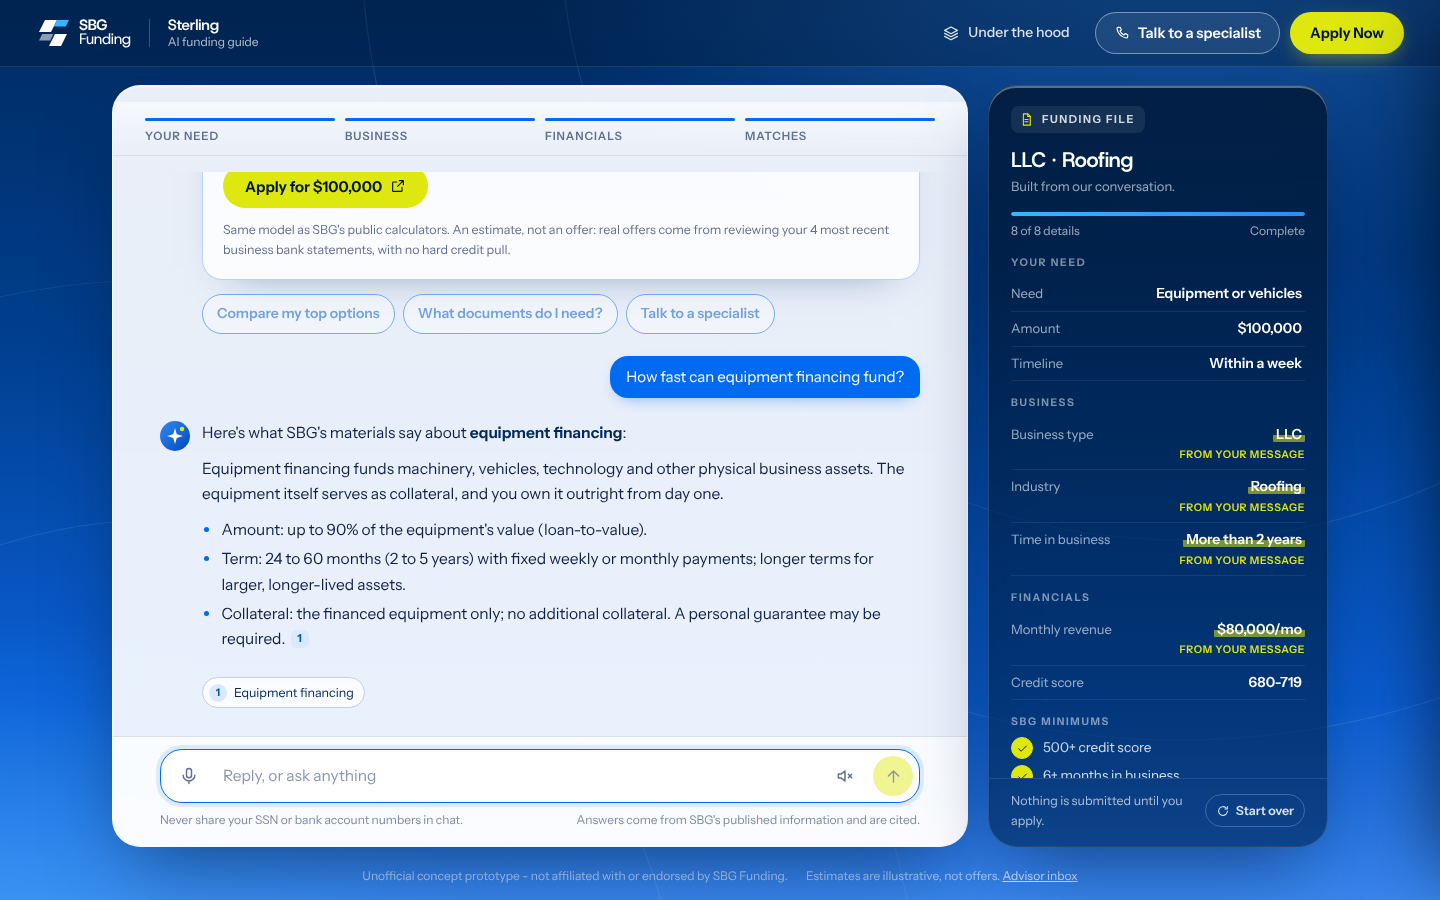
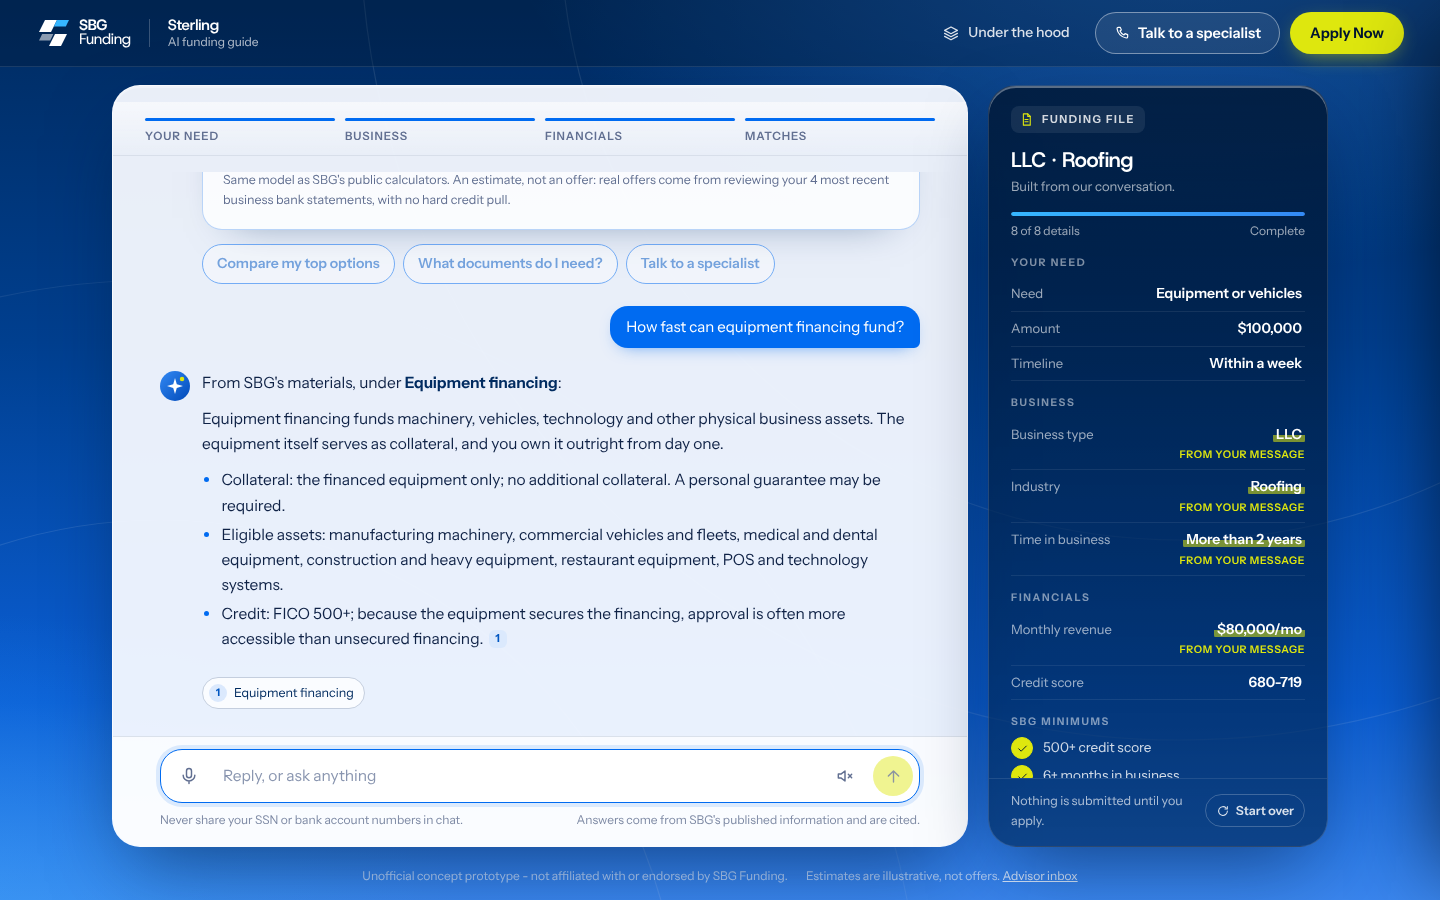
Answer questions properly in retrieval-only mode
Found while testing the README's quick start in a fresh clone:
- "How fast can equipment financing fund?" was taken as a stated need
  (purpose: equipment) and got "I've added need to your funding file" instead
  of an answer. Questions are now answered; details in them (revenue, entity
  type) are still captured, but a product name in a question no longer counts
  as a need.
- A short continuation of a split section could outrank the section's
  opening, which holds the direct answer ("your 4 most recent business bank
  statements"). The opening is quoted when it was retrieved too.
- Excerpts now pick the bullets that share the most words with the question,
  so "is there a draw fee?" shows the fee bullet.
- Headers keep the passage title's casing, and the capture message names the
  values it noted.

Four tests cover this (99 in total); README screenshots refreshed.

Claude-Session: https://claude.ai/code/session_01GDVX7sSqJoKBkn4jgicuQt

Changed region(s): [[0.0938, 0.1867, 0.6562, 0.7156]]

diff --git a/lib/agent/offline.ts b/lib/agent/offline.ts
@@ -7,8 +7,9 @@
  *      knowledge base, or offers a specialist when nothing matches.
  * Less fluent than the model, but never wrong in a way the knowledge base isn't.
  */
-import { FIELD_LABELS, mergeProfile, monthsToBucket, type Profile, type ProfileField } from "@/lib/engine/profile";
-import { search } from "@/lib/rag/retriever";
+import { describeField, FIELD_LABELS, mergeProfile, monthsToBucket, type Profile, type ProfileField } from "@/lib/engine/profile";
+import { tokenize } from "@/lib/rag/bm25";
+import { loadIndex, search } from "@/lib/rag/retriever";
 import type { IndustryId } from "@/lib/sbg/industries";
 import type { ToolContext } from "./tools";
 
@@ -97,13 +98,23 @@ export function extractProfile(text: string): Partial<Profile> {
   return Object.fromEntries(Object.entries(out).filter(([, v]) => v !== undefined)) as Partial<Profile>;
 }
 
-function firstSentences(text: string, n: number): string {
+/** The passage's opening sentences, plus the bullets that share the most words with the question. */
+function excerpt(text: string, question: string): string {
   const lines = text.split("\n");
   const prose = lines.filter((l) => !l.startsWith("- ")).join(" ");
-  const sentences = (prose.match(/[^.!?]+[.!?]+/g) ?? [prose]).map((s) => s.trim());
-  const bullets = lines.filter((l) => l.startsWith("- ")).slice(0, 3);
-  return [sentences.slice(0, n).join(" "), ...bullets].filter(Boolean).join("\n");
+  const opening = (prose.match(/[^.!?]+[.!?]+/g) ?? [prose]).map((s) => s.trim()).slice(0, 3).join(" ");
+  const terms = new Set(tokenize(question));
+  const bullets = lines
+    .map((line, i) => ({ line, i, overlap: tokenize(line).filter((t) => terms.has(t)).length }))
+    .filter((b) => b.line.startsWith("- "))
+    .sort((a, b) => b.overlap - a.overlap || a.i - b.i)
+    .slice(0, 3)
+    .sort((a, b) => a.i - b.i)
+    .map((b) => b.line);
+  return [opening, ...bullets].filter(Boolean).join("\n");
 }
+
+const QUESTION_START = /^\s*(what|how|when|where|why|who|which|can|could|do|does|did|is|are|will|would|should)\b/i;
 
 const PII_REPLY =
   "For your security I removed that number from our chat. SBG never needs it here: you'll share what's required in the secure application, and applying only uses a soft credit pull.";
@@ -113,16 +124,23 @@ export async function offlineTurn(ctx: ToolContext, text: string, redacted = fal
     ctx.emit({ type: "text", delta: PII_REPLY });
     return PII_REPLY;
   }
+  const question = /\?\s*$/.test(text) || QUESTION_START.test(text);
   const extracted = extractProfile(text);
+  // In a question, a product name ("how fast is equipment financing?") isn't a stated need.
+  if (question) delete extracted.purpose;
   const { profile, changed } = mergeProfile(ctx.state.profile, extracted);
   if (changed.length > 0) {
     ctx.state.profile = profile;
     if (!ctx.state.intent) ctx.state.intent = "find";
     ctx.emit({ type: "profile", profile, changed, via: "ai" });
     ctx.trace("tool", `Pattern extraction: ${changed.map((f: ProfileField) => FIELD_LABELS[f]).join(", ")}`, extracted);
-    const reply = `Thanks - I've added ${changed.map((f) => FIELD_LABELS[f].toLowerCase()).join(", ")} to your funding file.`;
-    ctx.emit({ type: "text", delta: reply });
-    return reply;
+    if (!question) {
+      const noted = changed.map((f) => `${FIELD_LABELS[f].toLowerCase()} (${describeField(f, profile)})`);
+      const list = noted.length > 1 ? `${noted.slice(0, -1).join(", ")} and ${noted.at(-1)}` : noted[0];
+      const reply = `Thanks - I've noted your ${list} in your funding file.`;
+      ctx.emit({ type: "text", delta: reply });
+      return reply;
+    }
   }
 
   const result = await search(text, { k: 3 });
@@ -141,8 +159,16 @@ export async function offlineTurn(ctx: ToolContext, text: string, redacted = fal
     return reply;
   }
 
-  const top = result.hits[0].chunk;
-  const reply = `Here's what SBG's materials say about **${top.title.toLowerCase()}**:\n\n${firstSentences(top.text, 3)} [1]`;
+  // Long sections are split into several chunks, and a short continuation can outrank the
+  // section's opening, which usually holds the direct answer. Quote the opening when it
+  // was retrieved too.
+  const position = (id: string) => loadIndex().index.chunks.findIndex((c) => c.id === id);
+  const best = result.hits[0].chunk;
+  const top = result.hits
+    .map((h) => h.chunk)
+    .filter((c) => c.section === best.section && c.title === best.title)
+    .sort((a, b) => position(a.id) - position(b.id))[0];
+  const reply = `From SBG's materials, under **${top.title}**:\n\n${excerpt(top.text, text)} [1]`;
   ctx.sources.set(top.id, { n: 1, title: top.title, section: top.section, url: top.source, snippet: top.text.slice(0, 240) });
   ctx.emit({ type: "text", delta: reply });
   return reply;

diff --git a/tests/offline.test.ts b/tests/offline.test.ts
@@ -1,6 +1,7 @@
-/** Offline mode's pattern extraction: what it can pull from a message without the model. */
+/** Retrieval-only mode: what it can pull from a message, and how it answers, without the model. */
 import { describe, expect, it } from "vitest";
-import { extractProfile } from "@/lib/agent/offline";
+import { extractProfile, offlineTurn } from "@/lib/agent/offline";
+import type { ToolContext } from "@/lib/agent/tools";
 
 describe("extractProfile", () => {
   it("pulls a whole profile out of one sentence", () => {
@@ -32,5 +33,34 @@ describe("extractProfile", () => {
 
   it("reads written-out units", () => {
     expect(extractProfile("Looking for 250 thousand to open a second location")).toEqual({ amount: 250_000, purpose: "expansion" });
+  });
+});
+
+describe("offlineTurn", () => {
+  const context = () =>
+    ({ state: { sessionId: "test", profile: {}, history: [] }, emit: () => {}, trace: () => {}, defer: () => {}, sources: new Map() }) as unknown as ToolContext;
+
+  it("notes business details from a statement", async () => {
+    const ctx = context();
+    const reply = await offlineTurn(ctx, "I run a roofing company, an LLC, 3 years in business, about $80K a month");
+    expect(ctx.state.profile).toMatchObject({ industry: "roofing", businessType: "llc", monthlyRevenue: 80_000 });
+    expect(reply).toContain("in your funding file");
+  });
+
+  it("answers a question instead of treating a product name as a need", async () => {
+    const ctx = context();
+    const reply = await offlineTurn(ctx, "How fast can equipment financing fund?");
+    expect(ctx.state.profile).toEqual({});
+    expect(reply).toMatch(/^From SBG's materials, under \*\*Equipment financing\*\*/);
+  });
+
+  it("quotes the opening of a split section, where the direct answer is", async () => {
+    const reply = await offlineTurn(context(), "What do I need to apply?");
+    expect(reply).toContain("4 most recent business bank statements");
+  });
+
+  it("declines when nothing in the knowledge base matches", async () => {
+    const reply = await offlineTurn(context(), "Who won the World Series in 1986?");
+    expect(reply).toMatch(/couldn't find that in SBG's materials/);
   });
 });

diff --git a/docs/INTERVIEW_PREP.md b/docs/INTERVIEW_PREP.md
@@ -21,7 +21,7 @@
 | 1:45 | Type: *How fast can equipment financing fund?* | "Facts come from retrieval over SBG's content: hybrid keyword and semantic search, cited inline. If it can't find something, it says so and offers a person." |
 | 2:05 | Open "Under the hood" | "Every turn is traced: guardrails, retrieval scores, tool calls, model, tokens, latency. It's how I debugged it, and how you'd monitor it." |
 | 2:25 | Click "Talk to a specialist", then switch to the inbox tab | "The advisor gets the profile, a summary to read first and the transcript, so the customer never repeats themselves. Hardship and complaints are matched by rules before the model sees them, and they're marked high priority." |
-| 2:50 | Close | "Without an API key it still works in retrieval-only mode. There are 95 tests, and retrieval and routing evals are in the README." |
+| 2:50 | Close | "Without an API key it still works in retrieval-only mode. There are 99 tests, and retrieval and routing evals are in the README." |
 
 If anything breaks: the guided flow, results, estimate and handoff don't need the model. If the model fails, the inspector shows the fallback and the app keeps working. Screenshots of every screen are in `docs/screenshots/` as a backup.
 
@@ -137,7 +137,7 @@ Use STAR: situation, task, action, result. Keep each to about 90 seconds. Also p
 | Confidence | high ≥ 0.50 cosine, low < 0.33 |
 | Retrieval eval | hybrid hit@3 93.5%, hit@5 95.7%, MRR 0.839 (46 questions) |
 | Routing eval | 35 cases, all correct |
-| Tests | 95 |
+| Tests | 99 |
 | Agent | 5 tools, up to 6 steps, history capped at 24 turns |
 
 | SBG Funding | |

diff --git a/README.md b/README.md
@@ -132,7 +132,7 @@ Guardrail routing, 35 messages (`evals/routing.json`): 100% route accuracy, esca
 npm test
 ```
 
-95 unit tests cover the calculator model (against values computed by hand from SBG's formulas), eligibility and product ranking, the intake flow, guardrails, BM25 and offline extraction. Contract tests drive the agent loop against a mock of the Messages API that streams real server-sent events.
+99 tests. Unit tests cover the calculator model (against values computed by hand from SBG's formulas), eligibility and product ranking, the intake flow, guardrails, BM25 and retrieval-only answers. Contract tests drive the agent loop against a mock of the Messages API that streams real server-sent events.
 
 ## Project layout
 
